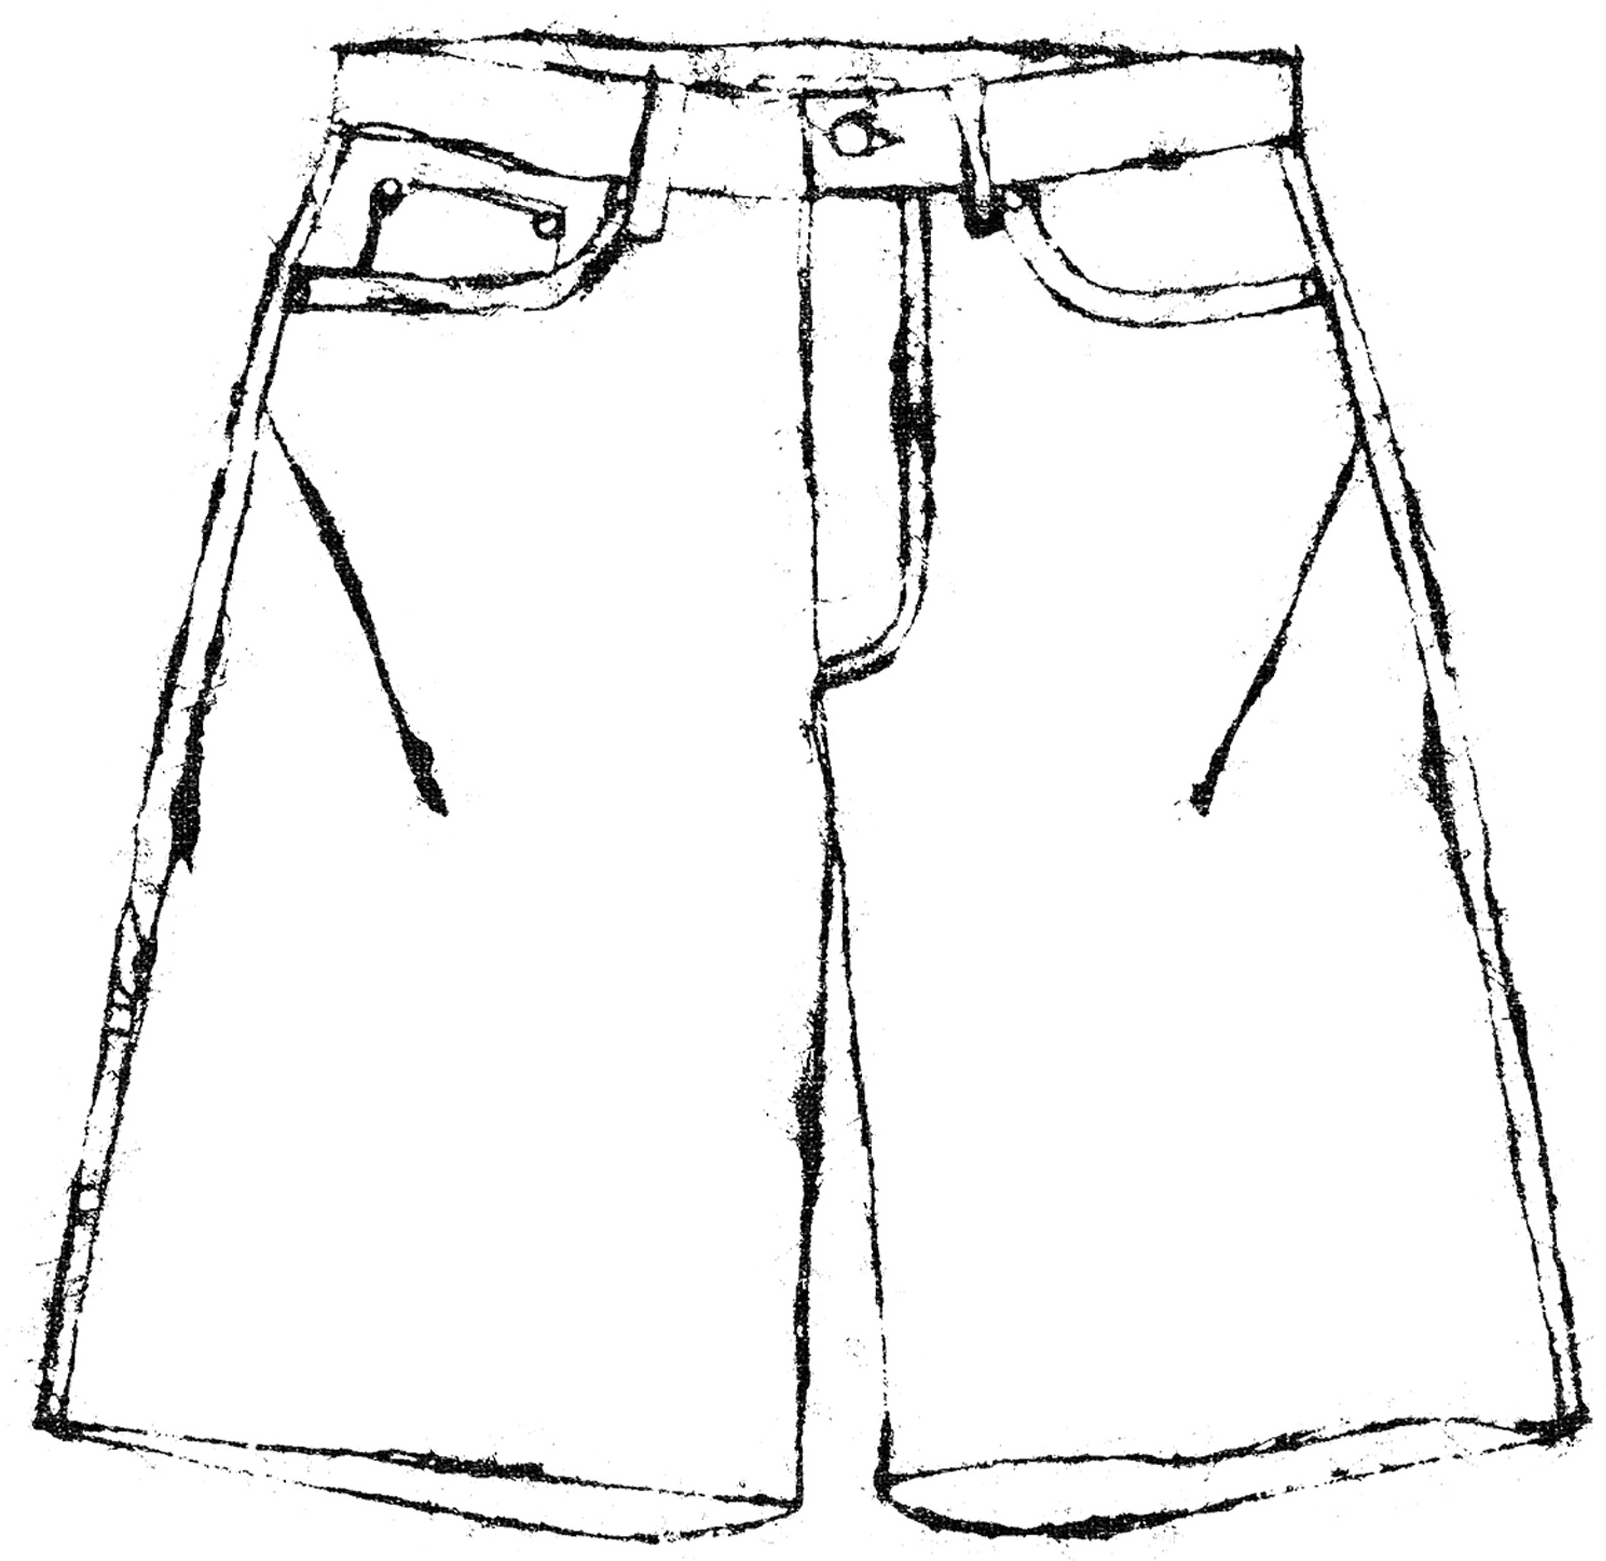
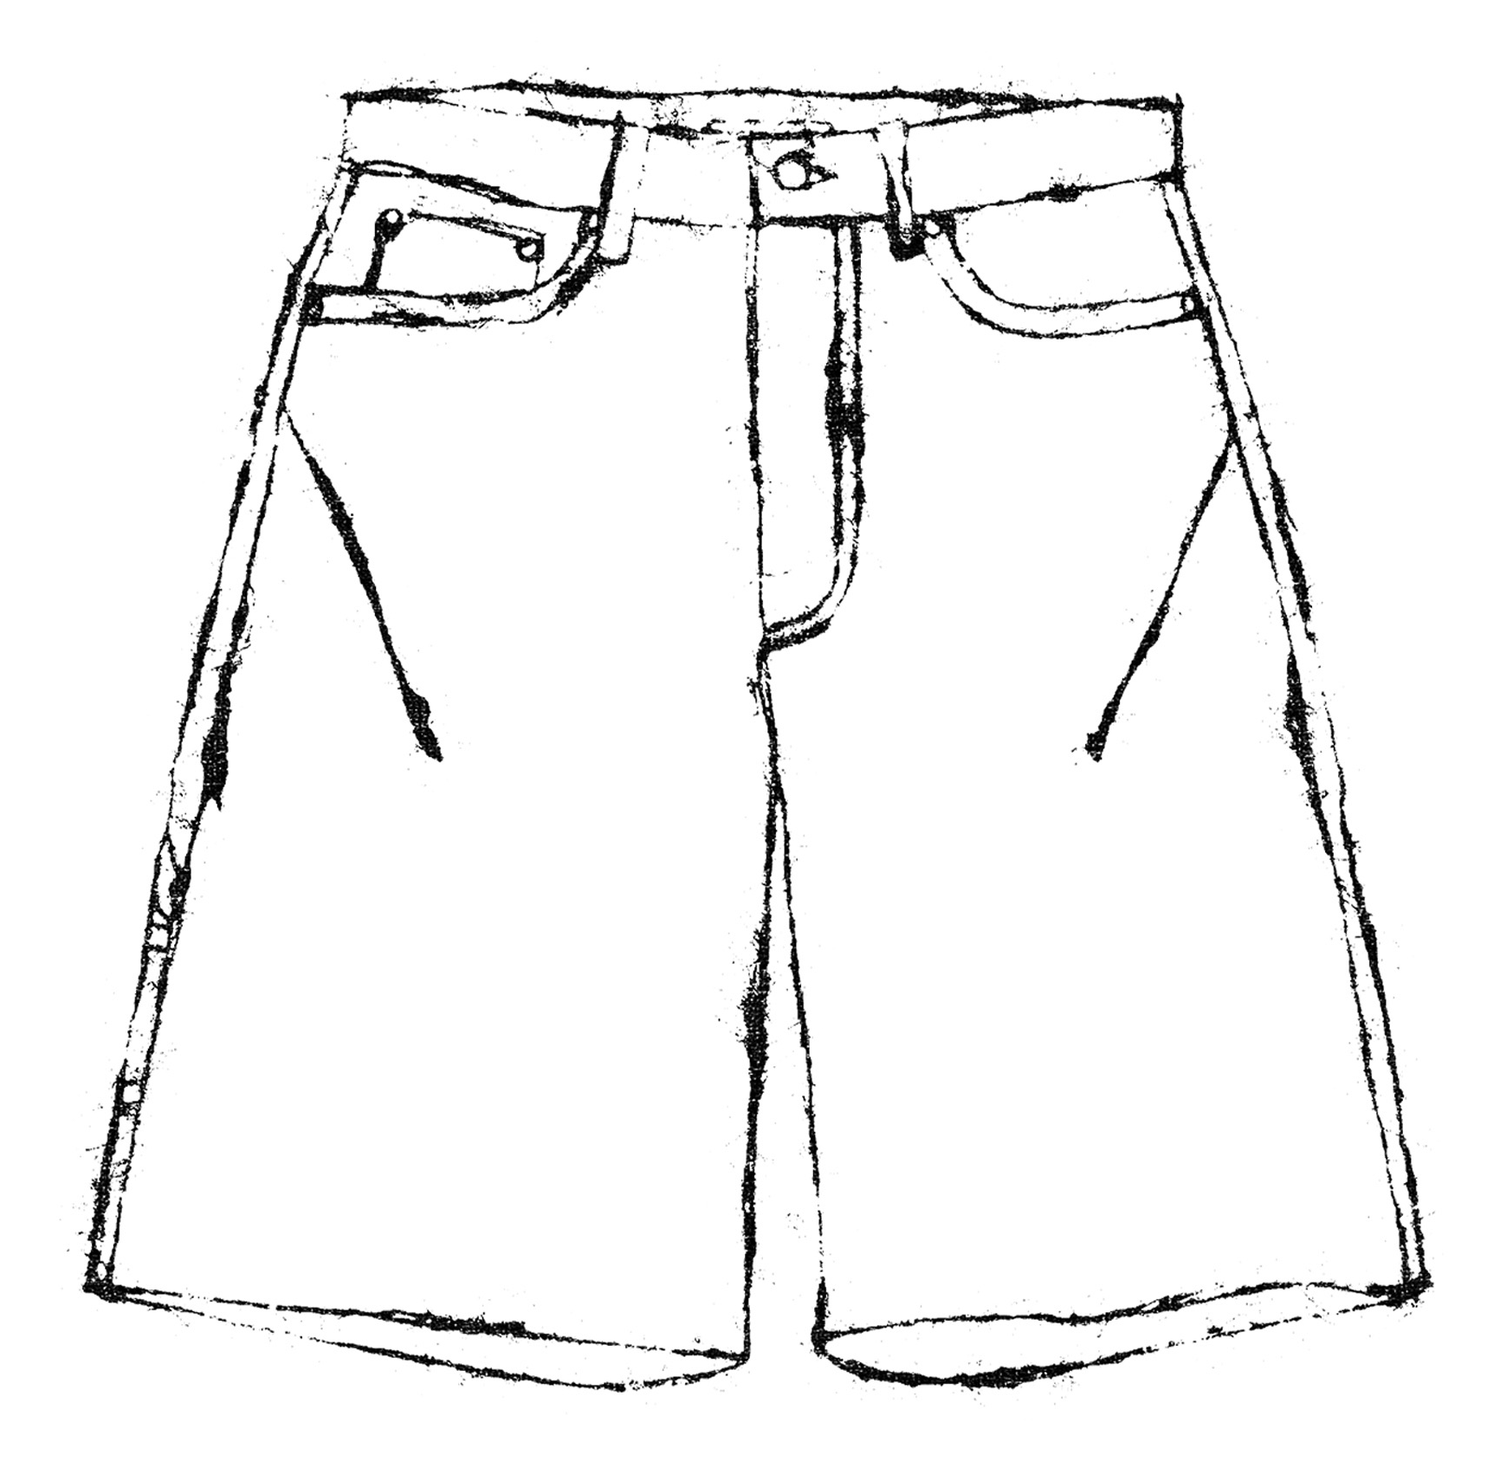
fix(size-guide): keep the drawing frame identical across measurements
The frame was sized to whichever arrow was on screen. That makes each view as
tight as it can be, but the box then changes shape on every tab — so the
drawing rescaled, shifted, and resized the modal around it. Switching from
Shoulder to Sleeve Length visibly jumped.

The frame is now built from all of a garment's arrows, so it's one fixed box
per garment: same dimensions, same drawing size, same drawing position, on
every measurement. The cost is a slightly smaller drawing, since the box has to
clear the sleeve diagonal on the left and the total-length arrow on the right
at the same time.

Measured on the page across every tab:
  jacket   modal 1024x609  drawing at (325,204) 320x274  — 4/4 identical
  denim    modal 1024x828  drawing at (333,96)  273x446  — 5/5 identical
  hoodie   modal 1024x630  drawing at (311,196) 306x321  — 4/4 identical

Changed region(s): [[0.0, 0.0, 1.0, 1.0]]

diff --git a/app/lib/size-guide-geometry.ts b/app/lib/size-guide-geometry.ts
@@ -59,7 +59,7 @@ type RawGuides = [null | [number, number], null | [number, number]];
  * carrying a *small* (>=4px) gap that then stays open — threshold low enough to
  * catch the apex itself, sustained long enough to reject noise.
  */
-const CROTCH: [number, number] = [0.5169, 0.4379];
+const CROTCH: [number, number] = [0.5162, 0.439];
 
 function garment(
   src: string,
@@ -92,7 +92,7 @@ export const GARMENTS: Record<GarmentKey, GarmentSpec> = {
   // Footwear carries no measurement arrows — the chart is an EU/US conversion,
   // so the drawing sits alongside the table purely as a reference.
   footwear: garment('/sizeguide/footwear.png', 1723, 1313, {}),
-  bottoms: garment('/sizeguide/bottoms.png', 712, 1192, {
+  bottoms: garment('/sizeguide/bottoms.png', 919, 1500, {
     // Rise and inseam both meet at CROTCH, so their arrows end on that row and
     // their leaders run flat to it. Probing in from the arrow (how every other
     // leader was found) stops at the outer leg seam instead, which left the
@@ -102,157 +102,164 @@ export const GARMENTS: Record<GarmentKey, GarmentSpec> = {
     // garment — measured off the supplied reference at 0.178 of the garment's
     // width right of the crotch, with its number in a break in the line.
     inseam: {
-      a: [0.6771, CROTCH[1], 0.6771, 0.966, 'above'],
-      g: [CROTCH, [0.5976, 0.9656]],
+      a: [0.67, CROTCH[1], 0.67, 0.9542, 'above'],
+      g: [CROTCH, [0.5937, 0.9538]],
     },
     legOpening: {
-      a: [0.055, 1.001, 0.41, 1.017, 'above'],
-      g: [[0.0618, 0.9505], [0.4171, 0.9622]],
+      a: [0.0729, 0.9884, 0.4136, 1.004, 'above'],
+      g: [[0.0794, 0.9391], [0.4204, 0.9505]],
     },
     // Number in a break in the line, as the mockup draws it.
     rise: {
-      a: [0.787, 0.039, 0.787, CROTCH[1], 'above'],
-      g: [[0.23, 0.0403], CROTCH],
+      a: [0.7755, 0.0498, 0.7755, CROTCH[1], 'above'],
+      g: [[0.2408, 0.0511], CROTCH],
     },
     thigh: {
-      a: [0.136, 0.459, 0.49, 0.484, 'above'],
+      a: [0.1506, 0.4596, 0.4904, 0.484, 'above'],
       g: [null, null],
     },
     waist: {
-      a: [0.235, -0.025, 0.792, -0.025, 'above'],
-      g: [[0.2346, 0.0369], [0.7921, 0.0453]],
+      a: [0.2456, -0.0126, 0.7803, -0.0126, 'above'],
+      g: [[0.2453, 0.0478], [0.7804, 0.056]],
     },
   }),
-  jersey: garment('/sizeguide/jersey.png', 983, 966, {
+  jersey: garment('/sizeguide/jersey.png', 1500, 1478, {
     pitToPit: {
-      a: [0.233, 0.423, 0.777, 0.423, 'above'],
+      a: [0.2356, 0.4238, 0.7737, 0.4238, 'above'],
       g: [null, null],
     },
     shoulder: {
-      a: [0.222, -0.117, 0.771, -0.117, 'above'],
-      g: [[0.2218, 0.117], [0.7711, 0.1035]],
+      a: [0.2247, -0.1108, 0.7677, -0.1108, 'above'],
+      g: [[0.2245, 0.1208], [0.7678, 0.1075]],
     },
     sleeveLength: {
-      a: [0.13, 0.059, -0.038, 0.308, 'left'],
-      g: [[0.2187, 0.1211], [0.0509, 0.3706]],
+      a: [0.1337, 0.0634, -0.0325, 0.3099, 'left'],
+      g: [[0.2214, 0.1249], [0.0554, 0.3719]],
     },
     totalLength: {
-      a: [1.079, 0.064, 1.079, 0.96, 'right'],
-      g: [[0.6755, 0.0642], null],
+      a: [1.0724, 0.0684, 1.0724, 0.9554, 'right'],
+      g: [[0.6733, 0.0686], null],
     },
   }),
-  knitwear: garment('/sizeguide/knitwear.png', 1031, 1063, {
+  knitwear: garment('/sizeguide/knitwear.png', 1457, 1500, {
     pitToPit: {
-      a: [0.24, 0.4, 0.768, 0.4, 'above'],
+      a: [0.2444, 0.4013, 0.7634, 0.4013, 'above'],
       g: [null, null],
     },
     shoulder: {
-      a: [0.205, -0.029, 0.791, -0.029, 'above'],
-      g: [[0.2047, 0.1656], [0.7915, 0.1722]],
+      a: [0.21, -0.0209, 0.786, -0.0209, 'above'],
+      g: [[0.2097, 0.1706], [0.7865, 0.1771]],
     },
     sleeveLength: {
-      a: [0.055, 0.141, -0.083, 0.926, 'left'],
-      g: [[0.1998, 0.1646], [0.0495, 0.9483]],
+      a: [0.0626, 0.1464, -0.073, 0.9189, 'left'],
+      g: [[0.2049, 0.1696], [0.0572, 0.9408]],
     },
     totalLength: {
-      a: [1.058, 0.086, 1.061, 0.819, 'right'],
-      g: [[0.6605, 0.086], [0.9544, 0.819]],
+      a: [1.0485, 0.0923, 1.0514, 0.8136, 'right'],
+      // Bottom leader reaches back under the top leader so the two form a
+      // matched bracket, as the mockup draws it (not a stub at the cuff).
+      g: [[0.6578, 0.0923], [0.6799, 0.8136]],
     },
   }),
-  outerwear: garment('/sizeguide/outerwear.png', 1235, 1052, {
+  outerwear: garment('/sizeguide/outerwear.png', 1500, 1283, {
     pitToPit: {
-      a: [0.232, 0.5, 0.767, 0.5, 'above'],
+      a: [0.2394, 0.5, 0.7597, 0.5, 'above'],
       g: [null, null],
     },
     shoulder: {
-      a: [0.27, -0.015, 0.728, -0.015, 'above'],
-      g: [[0.2696, 0.1654], [0.7279, 0.1939]],
+      a: [0.2764, 0.0017, 0.7218, 0.0017, 'above'],
+      g: [[0.276, 0.1762], [0.7217, 0.2038]],
     },
     sleeveLength: {
-      a: [0.173, 0.143, -0.051, 0.875, 'left'],
-      g: [[0.2583, 0.1787], [0.034, 0.9106]],
+      a: [0.1821, 0.1546, -0.0358, 0.8628, 'left'],
+      g: [[0.265, 0.1891], [0.0469, 0.8973]],
     },
     totalLength: {
-      a: [0.958, 0.074, 0.958, 0.846, 'right'],
-      g: [[0.617, 0.0741], [0.5, 0.846]],
+      a: [0.9454, 0.0878, 0.9454, 0.8348, 'right'],
+      g: [[0.6138, 0.0879], [0.5001, 0.8348]],
     },
   }),
-  shirting: garment('/sizeguide/shirting.png', 1104, 1061, {
+  shirting: garment('/sizeguide/shirting.png', 1500, 1455, {
     pitToPit: {
-      a: [0.299, 0.389, 0.736, 0.389, 'above'],
+      a: [0.3028, 0.3916, 0.7309, 0.3916, 'above'],
       g: [null, null],
     },
     shoulder: {
-      a: [0.275, -0.079, 0.755, -0.079, 'above'],
-      g: [[0.2754, 0.1225], [0.7554, 0.1282]],
+      a: [0.2792, -0.0669, 0.7495, -0.0669, 'above'],
+      g: [[0.2796, 0.1305], [0.7499, 0.1361]],
     },
     sleeveLength: {
-      a: [0.181, 0.076, -0.086, 0.855, 'left'],
-      g: [[0.2799, 0.1131], [0.125, 0.9331]],
+      a: [0.1872, 0.0849, -0.0744, 0.8481, 'left'],
+      g: [[0.284, 0.1213], [0.1323, 0.9247]],
     },
     totalLength: {
-      a: [1.02, 0.07, 1.02, 0.904, 'right'],
-      g: [[0.6449, 0.0697], [0.962, 0.9039]],
+      a: [1.0091, 0.0791, 1.0091, 0.8961, 'right'],
+      g: [[0.6416, 0.0788], [0.9523, 0.896]],
     },
   }),
   // Hoodie: arrows and dotted guides measured directly off the four
   // `hoodie size guide` mockups, normalised to the hoodie drawing's tight bbox.
-  hoodie: garment('/sizeguide/hoodie.png', 2507, 2774, {
+  hoodie: garment('/sizeguide/hoodie.png', 1428, 1500, {
     pitToPit: {
-      a: [0.2229, 0.6009, 0.7955, 0.6009, 'above'],
+      a: [0.2498, 0.5949, 0.7657, 0.5949, 'above'],
       g: [null, null],
     },
     shoulder: {
-      a: [0.2488, -0.0486, 0.771, -0.0486, 'above'],
-      g: [[0.2488, 0.3356], [0.771, 0.3071]],
+      a: [0.2732, -0.0128, 0.7436, -0.0128, 'above'],
+      g: [[0.2732, 0.3467], [0.7436, 0.32]],
     },
     sleeveLength: {
-      a: [0.2083, 0.3096, -0.0594, 0.9523, 'left'],
-      g: [[0.2455, 0.3382], [-0.0754, 0.9361]],
+      a: [0.2367, 0.3224, -0.0045, 0.9237, 'left'],
+      g: [[0.2702, 0.3491], [-0.0189, 0.9085]],
     },
     totalLength: {
-      a: [1.1032, 0.2619, 1.1032, 0.8765, 'right'],
-      g: [[0.681, 0.2619], [0.7092, 0.8765]],
+      a: [1.0429, 0.2777, 1.0429, 0.8528, 'right'],
+      g: [[0.6625, 0.2777], [0.688, 0.8528]],
     },
   }),
-  // Shorts: the denim (bottoms) layout mapped onto the shorts drawing, piecewise
-  // so the rise (waist..crotch) and the short leg (crotch..hem) both scale right
-  // — crotch measured at 0.35, hem at 0.95. First pass — refine against the sketch.
-  shorts: garment('/sizeguide/shorts.png', 1606, 1561, {
+  // Shorts: arrows and dotted guides measured directly off the four
+  // `shorts size guide` mockups, normalised to the shorts drawing's tight bbox.
+  // The mockups carry no thigh measurement, so the shorts don't offer that tab.
+  shorts: garment('/sizeguide/shorts.png', 1500, 1461, {
     inseam: {
-      a: [0.6771, 0.3498, 0.6771, 0.9499, 'above'],
-      g: [[0.514, 0.3498], [0.5976, 0.9494]],
+      a: [0.6114, 0.5242, 0.6114, 0.922, 'above'],
+      g: [[0.5119, 0.5242], [0.5575, 0.922]],
     },
     legOpening: {
-      a: [0.055, 0.9916, 0.41, 1.0106, 'above'],
-      g: [[0.0618, 0.9314], [0.4171, 0.9454]],
+      a: [0.5397, 1.0114, 0.9772, 0.9951, 'above'],
+      g: [[0.5397, 0.9299], [0.9772, 0.9552]],
     },
     rise: {
-      a: [0.787, 0.0443, 0.787, 0.3498, 'above'],
-      g: [[0.23, 0.0452], [0.514, 0.3498]],
-    },
-    thigh: {
-      a: [0.136, 0.3475, 0.49, 0.3757, 'above'],
-      g: [null, null],
+      a: [0.9529, 0.0768, 0.9529, 0.5374, 'above'],
+      g: [[0.5065, 0.0768], [0.5155, 0.5374]],
     },
     waist: {
-      a: [0.235, -0.0019, 0.792, -0.0019, 'above'],
-      g: [[0.2346, 0.0428], [0.7921, 0.0488]],
+      a: [0.2176, -0.0622, 0.7889, -0.0622, 'above'],
+      g: [[0.2176, 0.0495], [0.7889, 0.055]],
     },
   }),
 };
 
 /**
- * Smallest box holding the drawing, every one of its arrows, and room for the
- * numbers beside them.
+ * Smallest box holding the full drawing plus the one arrow being shown and room
+ * for its number.
  *
- * A fixed pad would have to clear the worst case on all four sides at once,
- * which left the garment floating small in the middle for measurements like pit
- * to pit that sit entirely inside it. Deriving the box per garment keeps the
- * drawing as large as its own arrows allow — and keeps it still between tabs,
- * which a per-arrow box would not.
+ * The frame starts at the whole drawing (0,0)-(1000,height) so the garment is
+ * always shown in full, then grows only for the *active* measurement's arrow.
+ * Sizing it to every arrow at once — as it used to — meant each tab reserved
+ * the margin the sleeve, total-length and shoulder arrows need even when none
+ * of them is on screen, so the garment sat shrunken with an empty gap where the
+ * other tabs' lines would go. Framing per measurement keeps the garment as
+ * large as the active arrow allows and leaves no reserved blank space; the
+ * trade is that the drawing reframes a little as you switch tabs.
  */
 export function viewBoxFor(g: GarmentSpec): string {
+  // A drawing with no measurement arrows (footwear) is a plain reference image.
+  // Frame it in a box twice the drawing's size so it renders at half scale,
+  // centred in the panel, rather than filling it.
+  if (!Object.values(g.arrows).some(Boolean)) {
+    return [-500, -g.height / 2, 2000, 2 * g.height].join(' ');
+  }
   let minX = 0;
   let minY = 0;
   let maxX = 1000;
@@ -263,6 +270,10 @@ export function viewBoxFor(g: GarmentSpec): string {
     minY = Math.min(minY, y);
     maxY = Math.max(maxY, y);
   };
+  // Every arrow earns margin, not just the one on screen. Sizing to the active
+  // arrow makes a tighter frame, but then the box changes shape on each tab —
+  // which rescales the drawing, moves it, and resizes the whole modal. A frame
+  // that holds all of them is identical for every measurement.
   for (const a of Object.values(g.arrows)) {
     if (!a) continue;
     grow(a.x1, a.y1);

diff --git a/app/components/product/size-guide.tsx b/app/components/product/size-guide.tsx
@@ -368,8 +368,8 @@ function ModelBlock({model}: {model: ModelMeasurements}) {
 /**
  * The drawing plus exactly one arrow. The SVG shares a coordinate space with
  * the PNG (drawing at 0,0-1000,height) so arrows stay registered to the artwork
- * at any size; viewBoxFor sizes the frame to this garment's own arrows, which
- * keeps the drawing as large as it can be without shifting between tabs.
+ * at any size; viewBoxFor sizes the frame to all of this garment's arrows, so
+ * it is identical on every tab — the drawing never rescales or shifts.
  */
 function GarmentDrawing({
   garment,
@@ -381,6 +381,8 @@ function GarmentDrawing({
   value: null | string;
 }) {
   const arrow = garment.arrows[measurement];
+  // Frame to the full drawing plus only the active arrow, so the garment shows
+  // at full size with no blank margin reserved for the other tabs' lines.
   const vb = viewBoxFor(garment);
   const FONT = 42;
   const textRef = useRef<SVGTextElement>(null);
